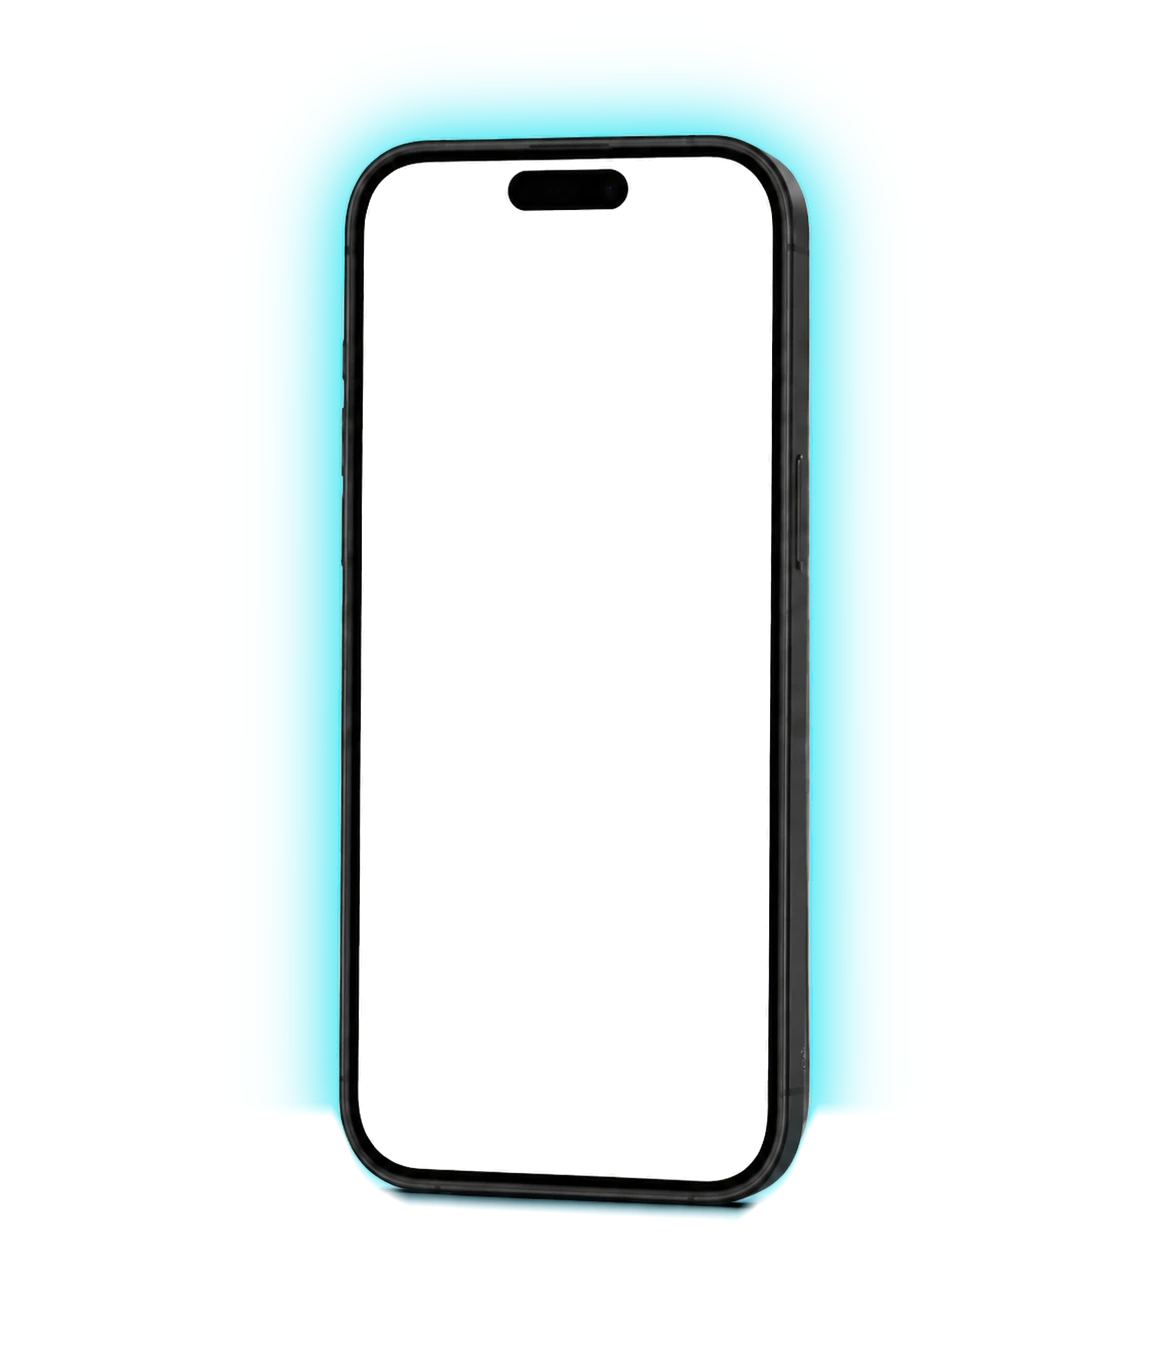
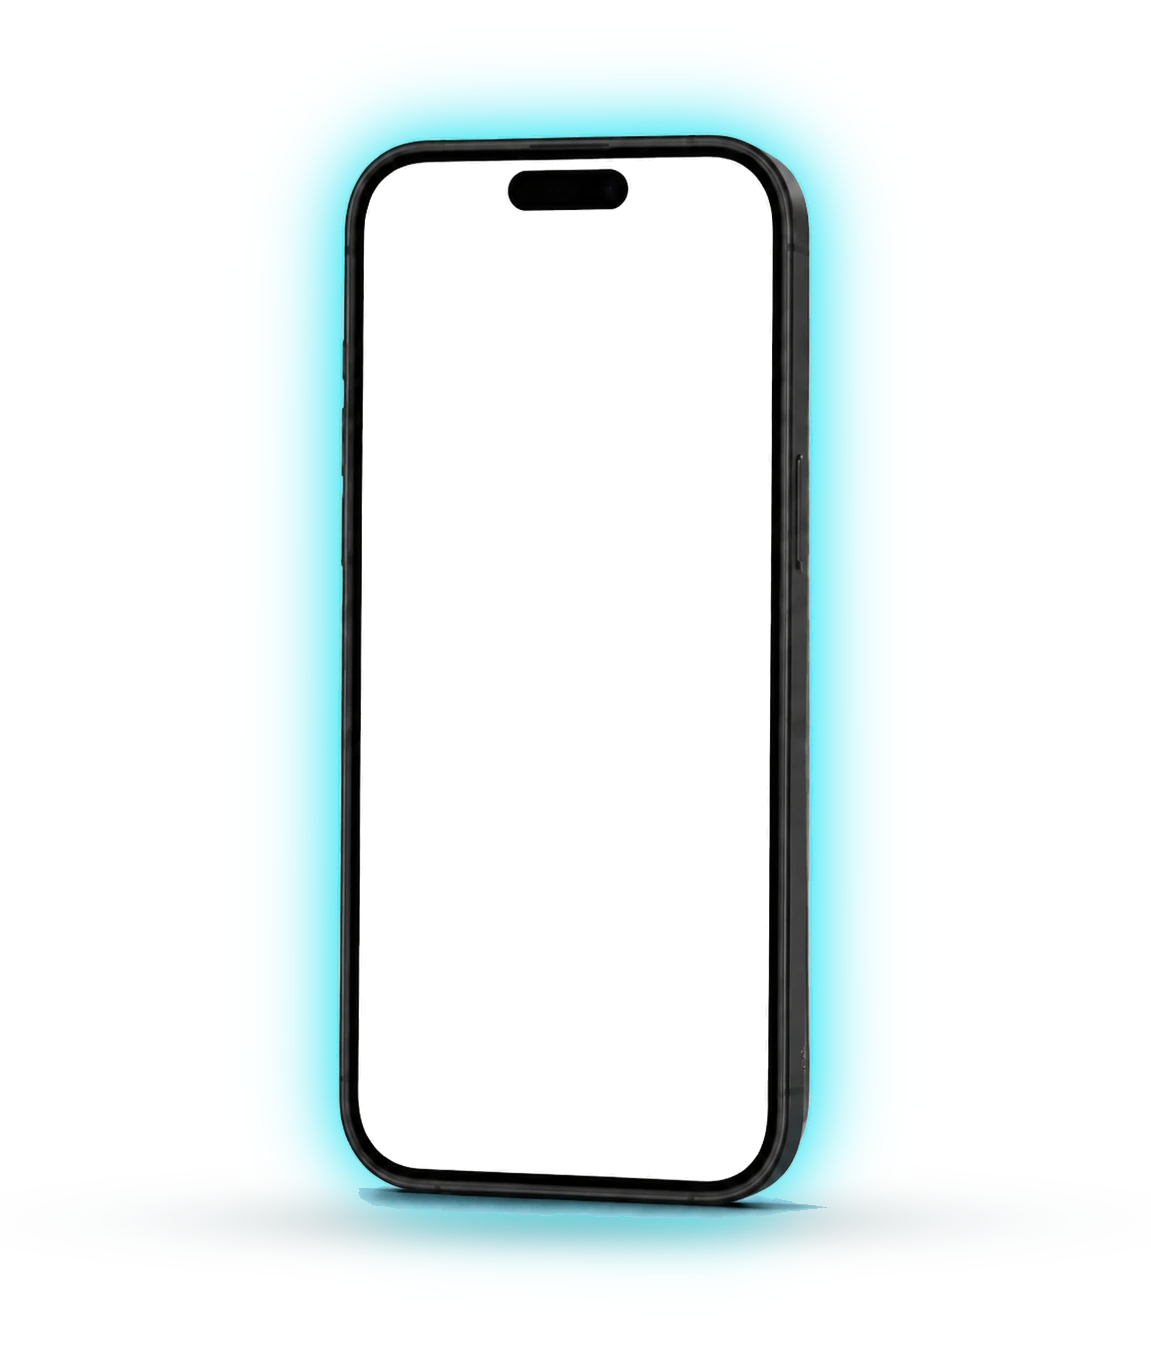
Revert the FlyGuru mockup to how it sat in 18b575f
The phone stopped reading as standing on the water. Two later commits had
touched it, and both go back.

1d835d2 re-cut assets/img/iphone-3d.webp to strip the pool of light under
the base. That halo was what seated the phone on the plane; without it the
body floats. The asset returns to the master from 18b575f.

c9310f0 chased 1-3px of cut-out backdrop leaking along the screen edge: it
pushed the video's inflation 2% -> 4% (new homography terms), chamfered the
clip into eight vertices, and darkened the backdrop to #08171C. That work is
reverted too — at 1440 the seam is clean without it, because the #0C5A67
backdrop sits close to the water behind the frame and a stray subpixel does
not read. If gaps show at some other width, the clip alone can be redone on
top of the correct seating.

The .fgh block in style.css is now byte-identical to 18b575f. index.html and
script.js are untouched, so the 100lovaya card from 33cf176 — its background,
plate, figures and buttons — stands as it was; it uses its own mockup, not
this asset.

Claude-Session: https://claude.ai/code/session_013DtL6VNHq6j6M6FGKD7nP8

Changed region(s): [[0.2433, 0.7994, 0.7602, 0.9224]]

diff --git a/style.css b/style.css
@@ -781,24 +781,11 @@ ul { list-style: none; padding: 0; }
    опираться. scale стоит ПЕРЕД matrix3d — то есть применяется последним,
    и пиксельные члены гомографии от него не страдают.
 
-   Ролик раздут вокруг центра выреза, а лишнее срезает clip-path на
-   .fgh__screenclip. Раздутия в 2% не хватало: подложка выреза, залитая
-   магентой, вылезала по краям полосой в 1-3 px — слева 3, сверху и снизу
-   по 1-3, справа 1 (754 пикселя на рендере 1440px). Теперь ролик раздут
-   на 4%, и тот же тест даёт ноль щелей.
-
-   Сам clip тоже переделан. Раньше это был ровно четырёхугольник выреза,
-   и он был ХУЖЕ дырки с обеих сторон: углы у дырки скруглены, а у
-   четырёхугольника острые, поэтому в скруглениях 1309 пикселей дырки
-   клип не закрывал — там сквозь корпус светил фон карточки; а сами
-   острые углы, наоборот, торчали за силуэт корпуса на 3 px. Теперь у
-   клипа восемь вершин: грани отодвинуты наружу (3 px по горизонтали,
-   4 по вертикали — под непрозрачный бортик), а углы срезаны на 18 px,
-   чтобы не вылезать в скруглениях. Проверено по альфе самого ассета:
-   дырка закрыта целиком, наружу не выходит ни пикселя.
-
-   Подложка выреза почти чёрная: если субпиксель всё же вылезет, он
-   прочтётся кромкой экрана, а не свечением. */
+   Ролик раздут на 2% вокруг центра выреза (углы уходят на ~11px наружу),
+   чтобы по кромке не было щелей от округлений, а лишнее срезает
+   clip-path на .fgh__screenclip — ровно по форме дырки, в процентах, так
+   что он верен на любой ширине. Раньше вместо этого была аффинка с
+   раздутием и без обрезки, и её углы вылезали поверх корпуса. */
 .fgh__phone {
   position: relative; z-index: 1;
   width: min(100%, 380px);
@@ -808,12 +795,9 @@ ul { list-style: none; padding: 0; }
 
 .fgh__screenclip {
   position: absolute; inset: 0;
-  clip-path: polygon(
-    31.4325% 13.0881%, 33.0051% 11.7434%,
-    65.7338% 11.1776%, 67.2888% 12.4683%,
-    66.8207% 85.4845%, 65.2498% 86.7467%,
-    32.4926% 85.5812%, 30.9393% 84.2079%);
-  background: #08171C;
+  clip-path: polygon(31.7011% 12.0637%, 67.0321% 11.4473%,
+                     66.5465% 86.4978%, 31.1998% 85.2350%);
+  background: #0C5A67;
 }
 .fgh__screen {
   position: absolute; left: 0; top: 0;
@@ -821,10 +805,10 @@ ul { list-style: none; padding: 0; }
   object-fit: cover;
   transform-origin: 0 0;
   transform: scale(var(--fgh-k, 0)) matrix3d(
-     0.97215202, -0.02926700, 0, -0.0000603785,
-    -0.00711198,  1.15199800, 0, -0.0000011938,
+     0.95299040, -0.02951724, 0, -0.0000603204,
+    -0.00684018,  1.13022831, 0, -0.0000008725,
      0,           0,          1,  0,
-   356.8810,    144.7210,     0,  1);
+   360.8702,    154.7506,     0,  1);
 }
 .fgh__frame {
   position: absolute; inset: 0;
